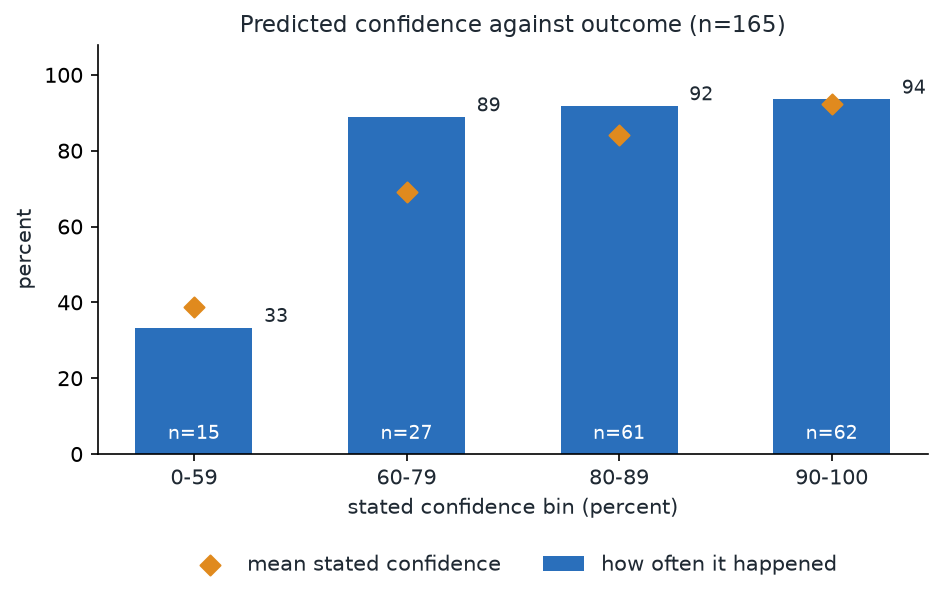
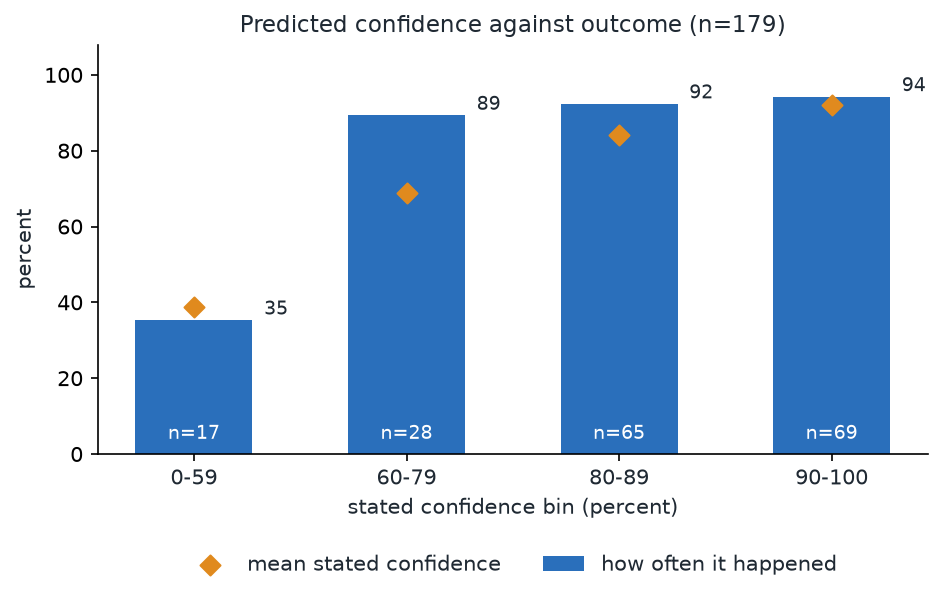
Score steps 42 to 46: workflow added and first CI run
AI-assisted: drafted with Claude, checked by the author.
Claude-Session: https://claude.ai/code/session_01RGFvSa7JT2gKyScyCs7gux

diff --git a/README.md b/README.md
@@ -13,7 +13,7 @@ This project was drafted with Claude (Anthropic) and checked by the author. Ever
 - Replay: a small C program drives the real C core under the undefined-behaviour sanitiser and writes 10680 rows of inputs and outputs. The Rust port reproduces every row exactly, on the PC and on an emulated Cortex-M3 (QEMU lm3s6965evb).
 - Feather M0: the same replay runs on a physical Adafruit Feather M0 (SAMD21, Cortex-M0+). All 10680 rows match, at 558.6 cycles per control step on average, measured with SysTick over one run (results/feather_cycles.csv, figures/feather_cycles.png). The count includes parsing each row and comparing the result. USB serial did not start under Windows with this HAL (atsamd-hal 0.23, feather_m0 0.20.4), even with the crate's own example, while an Arduino sketch worked on the same board and PC. So the firmware saves its result in one flash page, and bossac reads it back through the bootloader.
 - Mutation check: 10 deliberate bugs were put into the Rust port one at a time. The replay test with random vectors alone caught 8 of 10. Adding boundary vectors for the ADC limits raised that to 10 of 10 (figures/mutation_kills.png).
-- Predictions: before each run a prediction with a percentage was written down and scored afterwards from the pasted output. 165 predictions so far: 151 hit and 14 missed (91.5 percent hit). The misses are kept in docs/scorecard.csv, and figures/calibration.png compares stated confidence with what happened.
+- Predictions: before each run a prediction with a percentage was written down and scored afterwards from the pasted output. 179 predictions so far: 164 hit and 15 missed (91.6 percent hit). The misses are kept in docs/scorecard.csv, and figures/calibration.png compares stated confidence with what happened.
 
 ## Limits
 

diff --git a/docs/scorecard_notes.md b/docs/scorecard_notes.md
@@ -11,3 +11,5 @@ Left out so far:
 - Scoring corrections: DS, DW and DZ (under 50 percent, event did not happen) are hits, and EF (40 percent, event happened) is a miss. They were first announced the wrong way round in the working chat and corrected before being recorded here.
 
 Steps 37 to 41: the first push attempt (FM) stopped at the guard because a remote already existed with the wrong username (baliy instead of baliyu), probably set in an earlier session. FN and FO were predicted again for the second attempt. The calibration figure legend overlapped the n labels and was fixed in step 41.
+
+Steps 42 to 46: the CI workflow was added and pushed. The first run (ci#1, commit 351d31a) completed successfully. GM was predicted at 45 percent and happened, so it is a miss. The workflow has run once, so one green run is all that is claimed.
